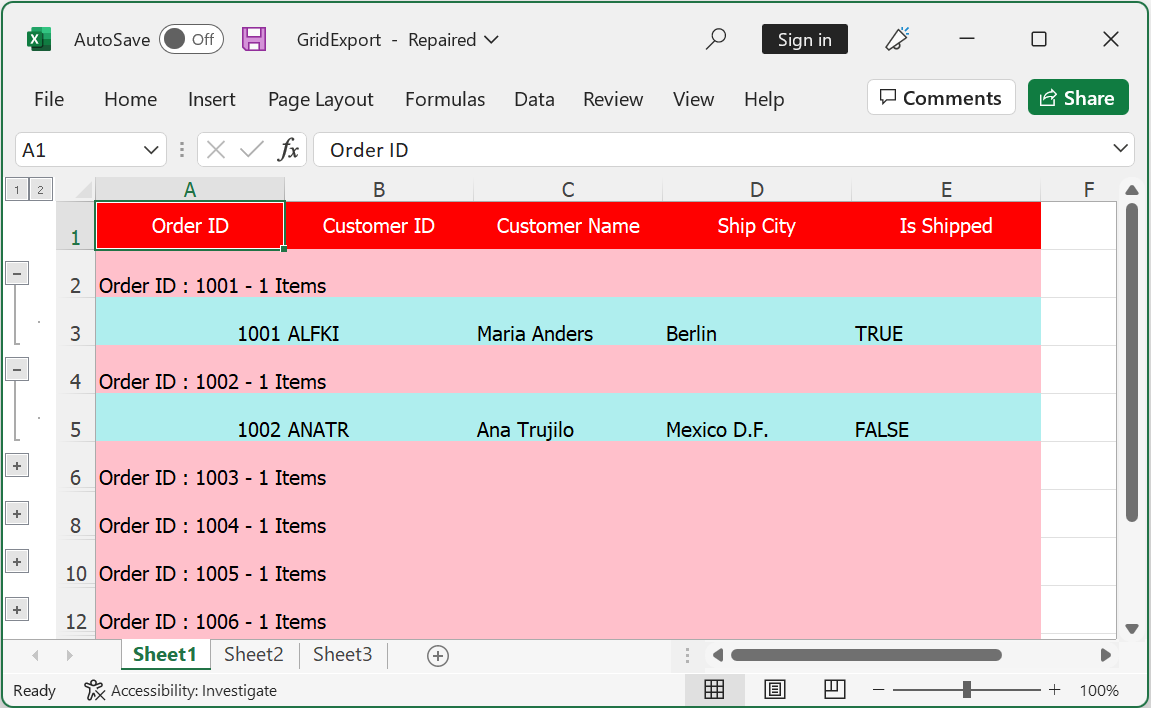
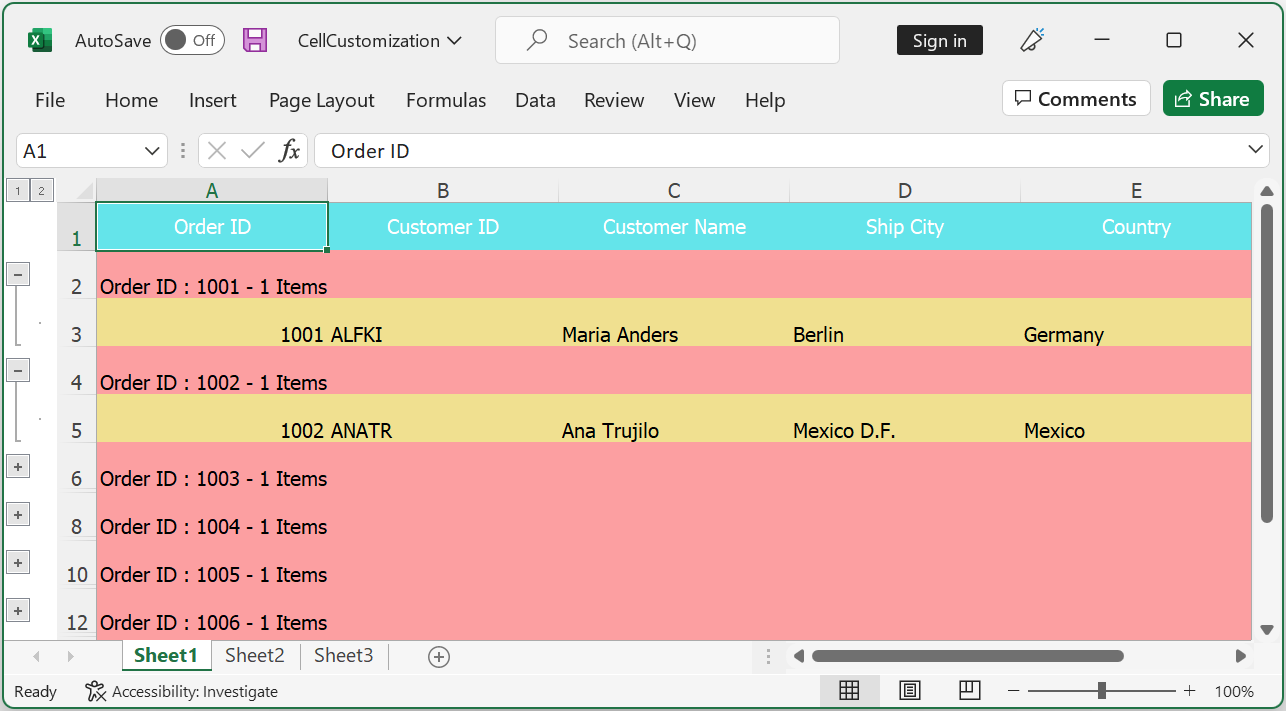
Modified the grid customization image

diff --git a/winui/DataGrid/Export-To-Excel.md b/winui/DataGrid/Export-To-Excel.md
@@ -263,20 +263,20 @@ private static void GridExportHandler(object sender, DataGridExcelExportStartOpt
 {
     if (e.CellType == ExportCellType.HeaderCell)
     {
-        e.Style.Color = Color.Red;
+        e.Style.Color = Color.FromArgb(100, 228, 234);
         e.Style.Font.Color = ExcelKnownColors.White;
         e.Handled = true;
     }
 
     else if (e.CellType == ExportCellType.RecordCell)
     {
-        e.Style.Color = Color.PaleTurquoise;
+        e.Style.Color = Color.FromArgb(240, 224, 144);
         e.Handled = true;
     }
 
     else if (e.CellType == ExportCellType.GroupCaptionCell)
     {
-        e.Style.Color = Color.Pink;
+        e.Style.Color = Color.FromArgb(252, 159, 161);
         e.Handled = true;
     }
 }
